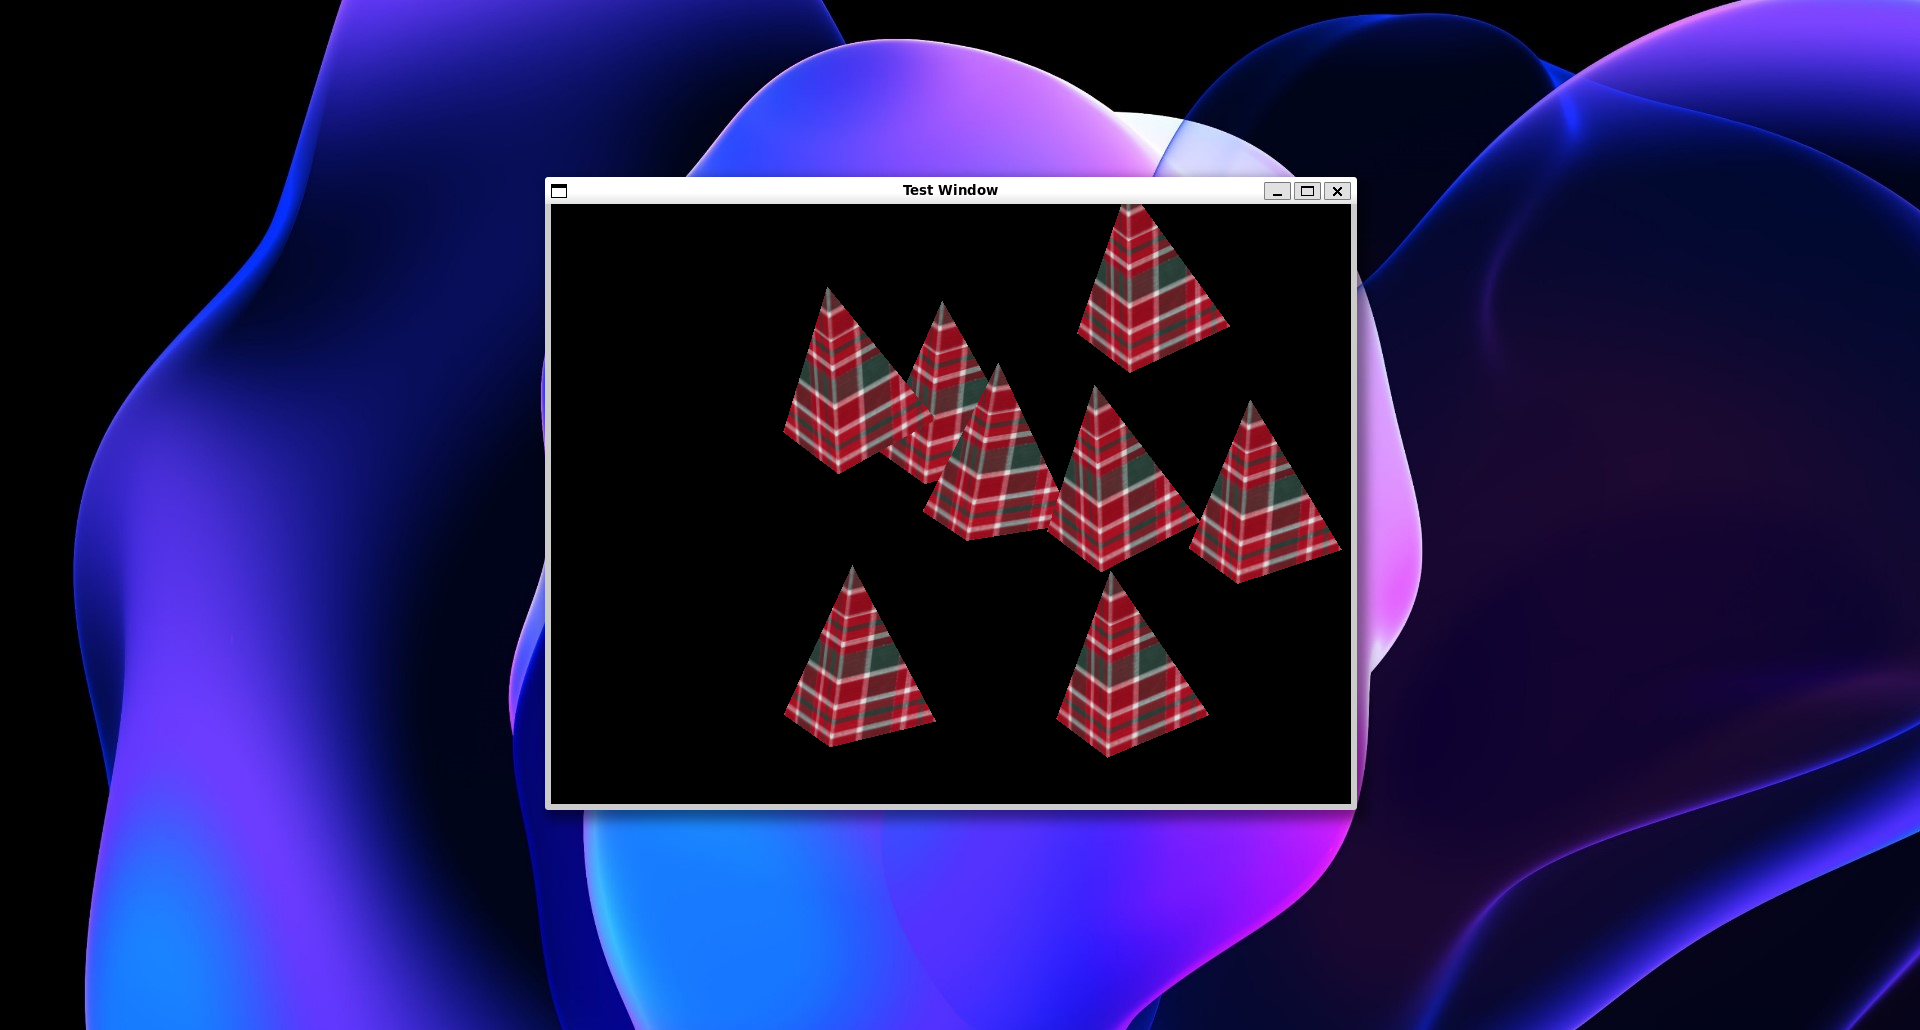
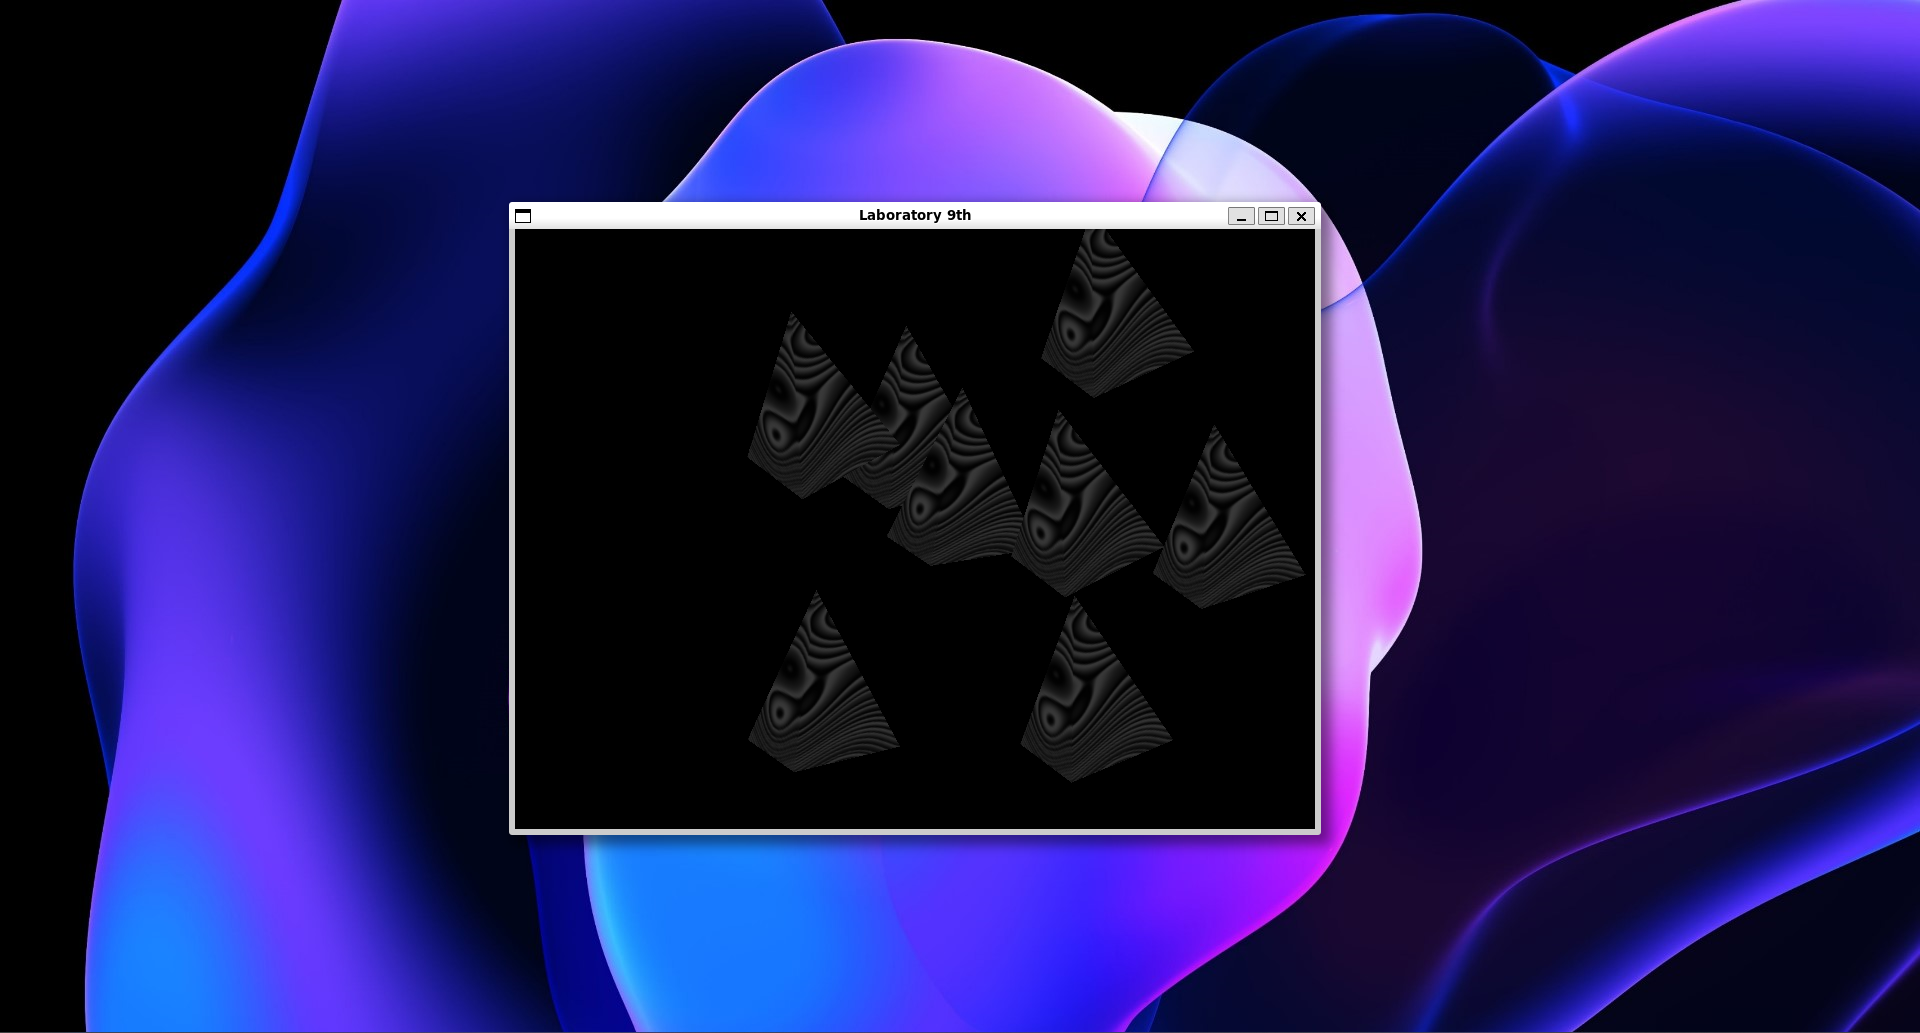
🎨 style(texture): change texture

diff --git a/Computer Graphic/lab/09-lab/main.cpp b/Computer Graphic/lab/09-lab/main.cpp
@@ -33,8 +33,7 @@ static const char *fShader = "Shaders/shader.frag";
 static const int NumberPyramid = 10;
 
 // Texture file
-// static const char *TextureFile = "Textures/container.jpg";
-static const char *TextureFile = "Textures/cloth.jpg";
+static const char *TextureFile = "Textures/abstract.jpg";
 
 void CreateTriangle() {
   GLfloat vertices[] = {-1.0f, -1.0f, 0.0f, 0.0f, 0.0f,  0.0,  -1.0f,
